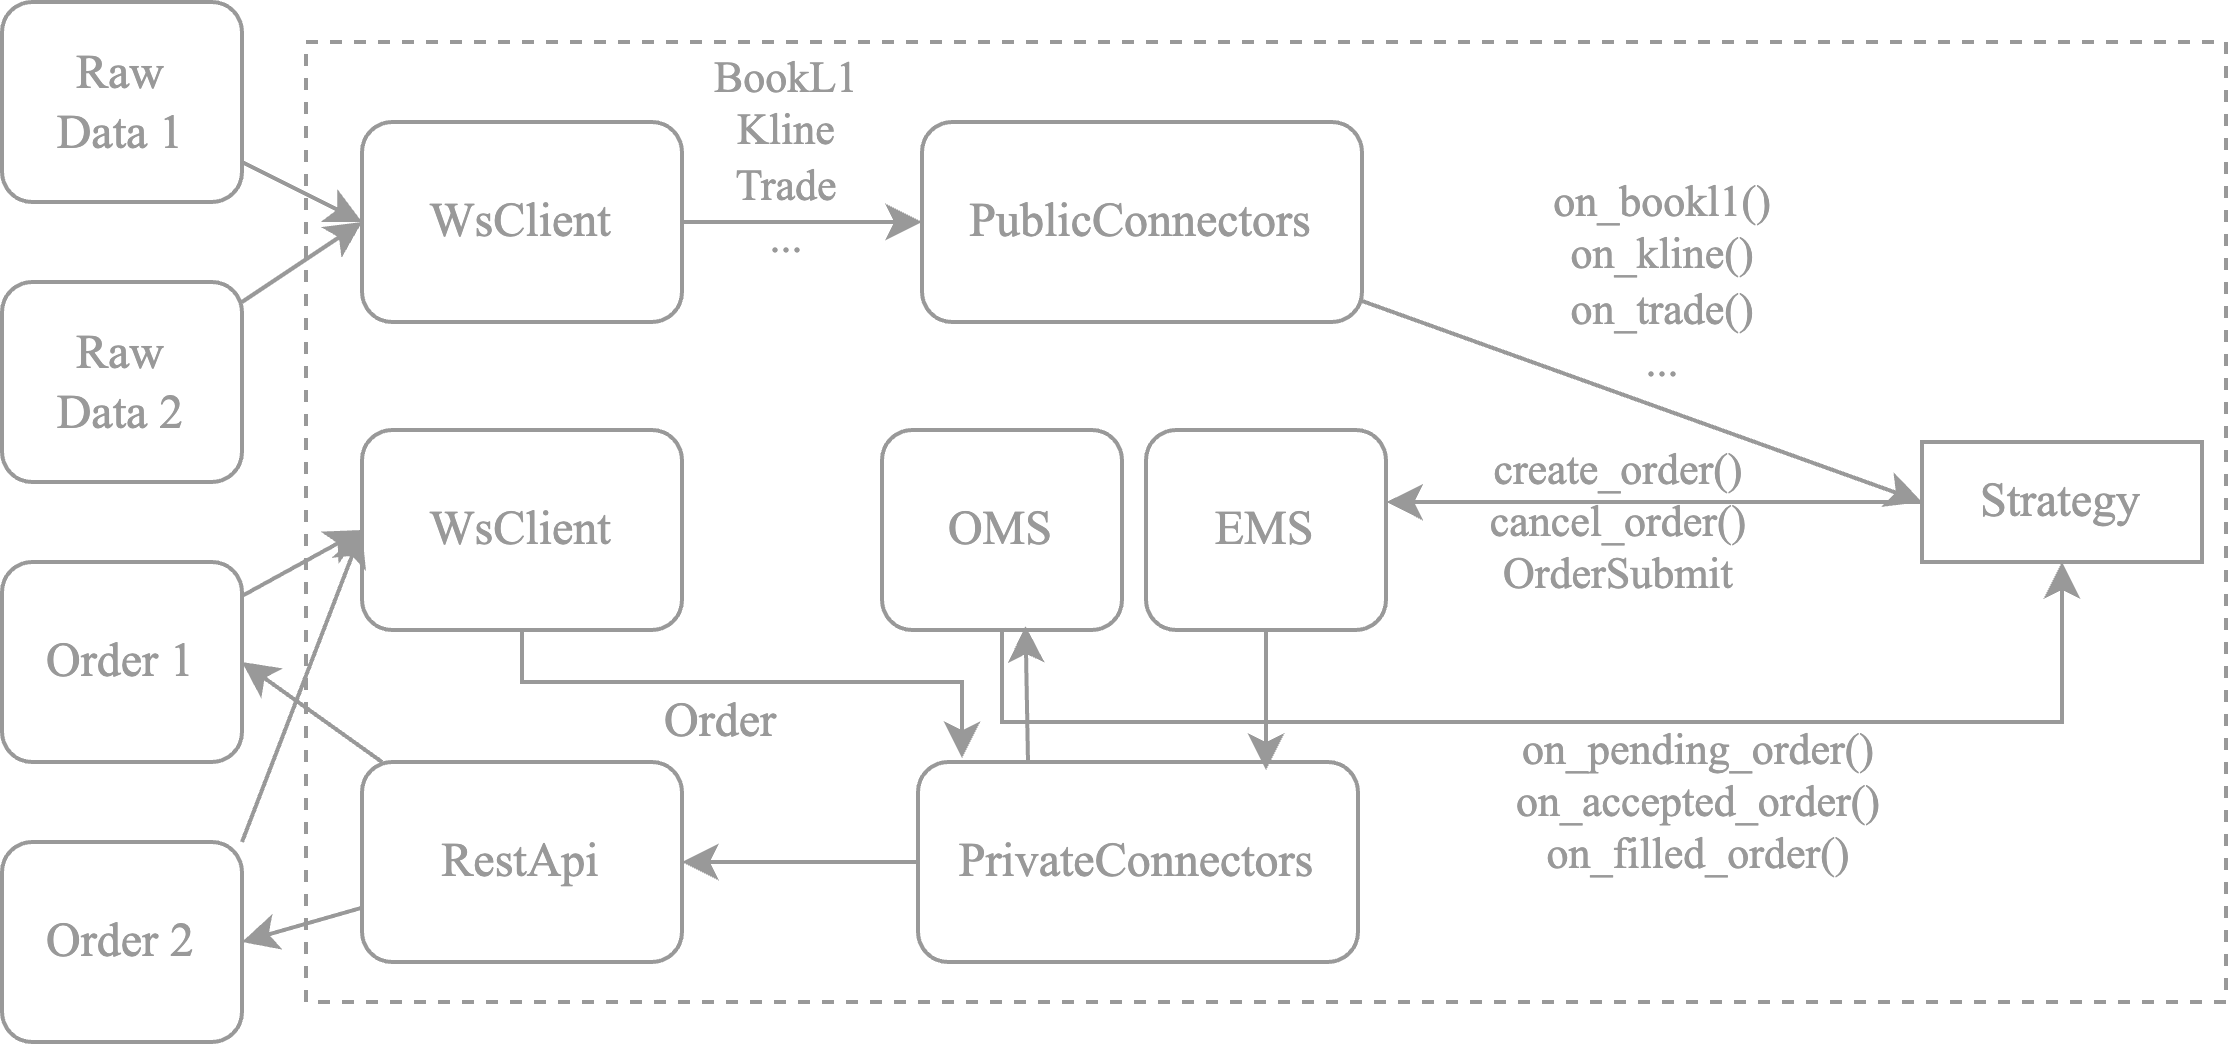
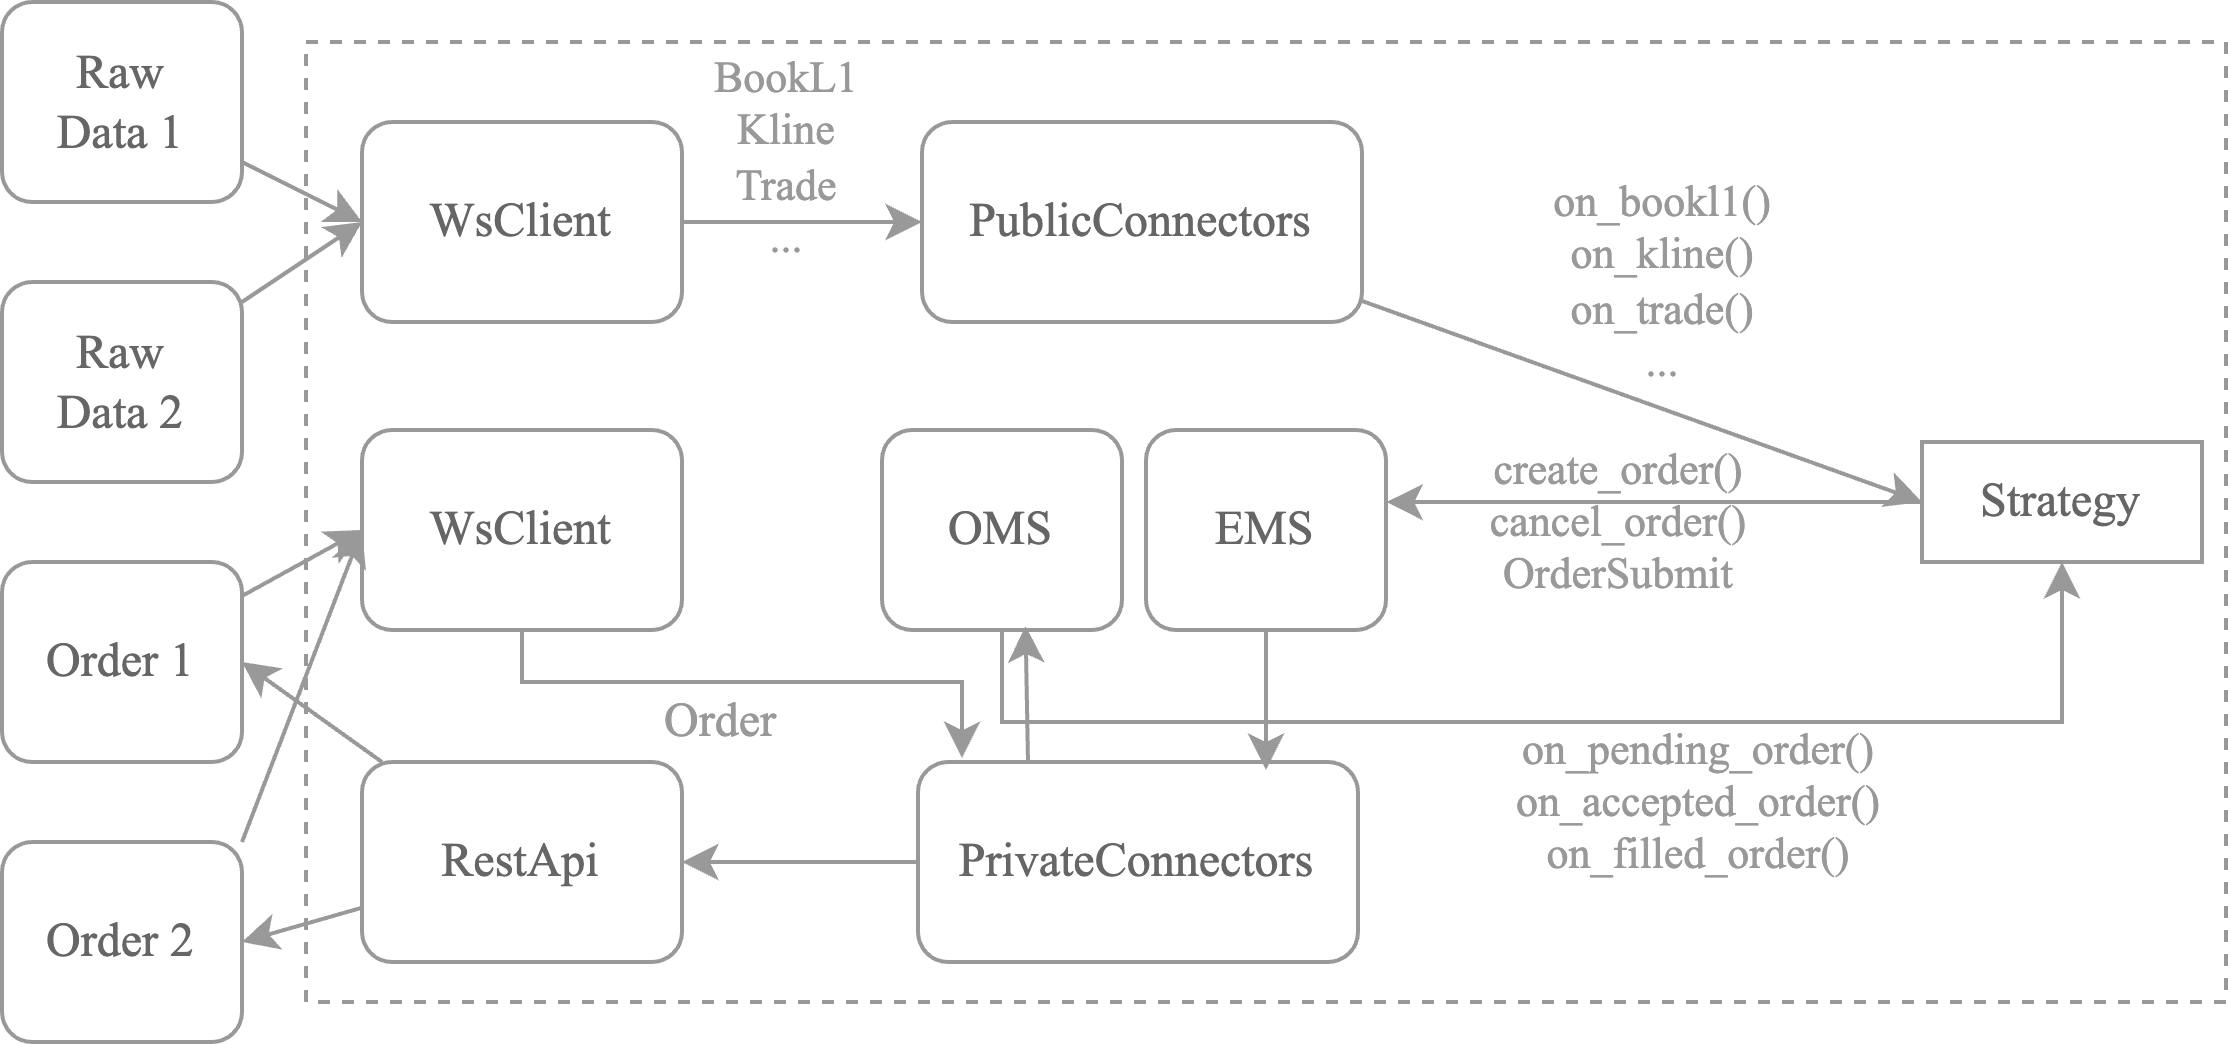
Update README.md with badge links for social platforms and modify architecture image
- Replaced text links for X (formerly Twitter), Discord, and Telegram in README.md with badge-style links for improved visibility and aesthetics.
- Updated the architecture diagram (arch.png) to reflect changes in the binary file, enhancing the documentation's visual representation.

These changes aim to enhance user engagement and improve the overall presentation of the project's documentation.

diff --git a/README.md b/README.md
@@ -314,11 +314,11 @@ Act now and take advantage of this opportunity to enhance your trading experienc
 
 Connect with us on your favorite platforms:
 
-- **[X (formerly Twitter)](https://x.com/quantweb3_ai)**: Stay updated with our latest news, features, and
-  announcements.
-- **[Discord](https://discord.gg/BR8VGRrXFr)**: Join our community to discuss ideas, get support, and connect with other
-  users.
-- **[Telegram](https://t.me/+6e2MtXxoibM2Yzlk)**: Receive instant updates and engage in real-time discussions.
+[![X (Twitter)](https://img.shields.io/badge/X_(Twitter)-000000?style=for-the-badge&logo=x&logoColor=white)](https://x.com/quantweb3_ai) Stay updated with our latest news, features, and announcements.
+
+[![Discord](https://img.shields.io/badge/Discord-5865F2?style=for-the-badge&logo=discord&logoColor=white)](https://discord.gg/BR8VGRrXFr) Join our community to discuss ideas, get support, and connect with other users.
+
+[![Telegram](https://img.shields.io/badge/Telegram-26A5E4?style=for-the-badge&logo=telegram&logoColor=white)](https://t.me/+6e2MtXxoibM2Yzlk) Receive instant updates and engage in real-time discussions.
 
 ## See Also  
 
